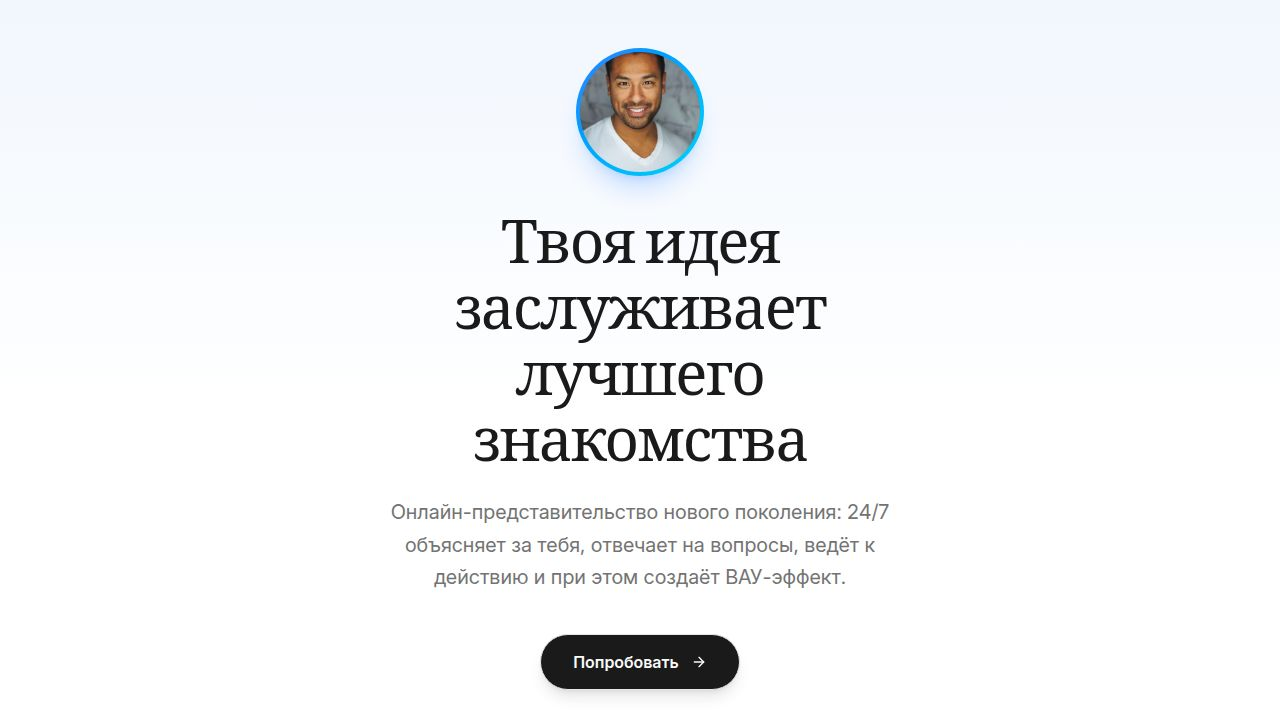
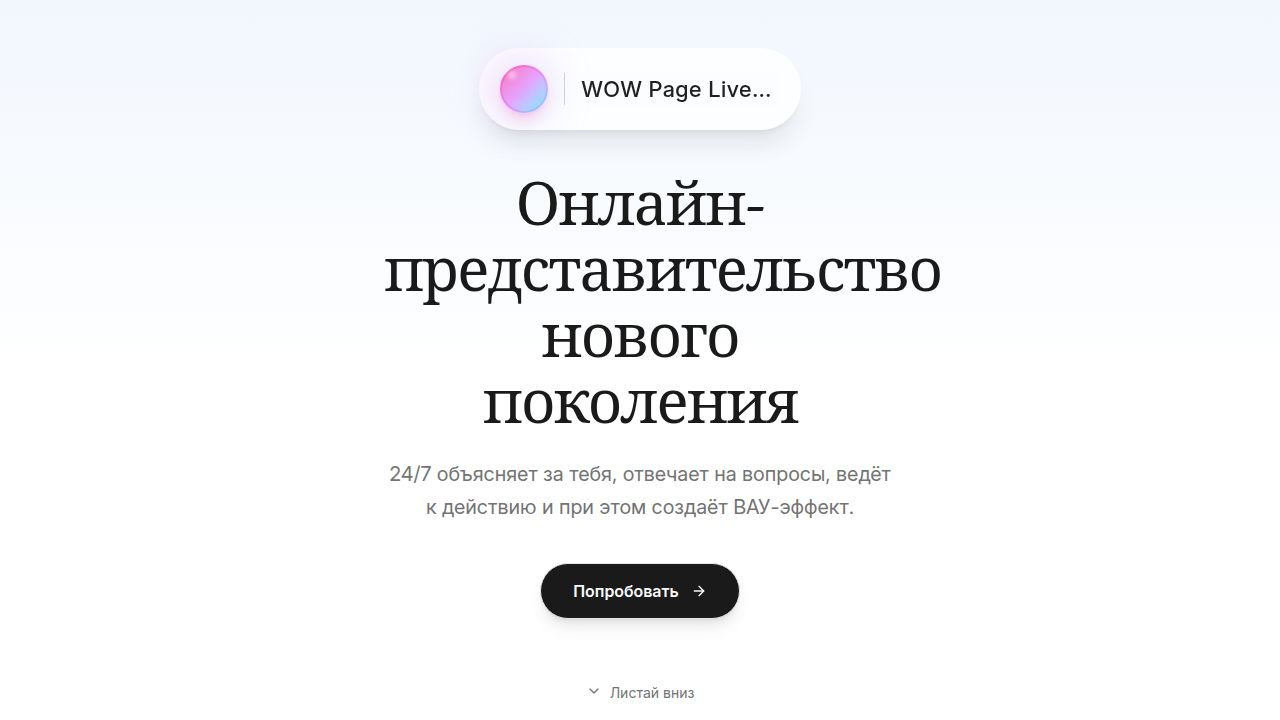
Update content structure document with new hero section details
Update content_structure.md to reflect changes in the HERO section, including the animated gradient sphere, updated headline, and revised subtitle.

Replit-Commit-Author: Agent
Replit-Commit-Session-Id: 7379edc7-50fc-4169-9485-e67b6c62e741
Replit-Commit-Checkpoint-Type: full_checkpoint
Replit-Commit-Event-Id: 4fe708b1-d21d-48ed-990d-6394972baa79
Replit-Commit-Screenshot-Url: https://storage.googleapis.com/screenshot-production-us-central1/99026f04-89c8-4da1-87eb-aada4135dc22/7379edc7-50fc-4169-9485-e67b6c62e741/8EJfL6R
Replit-Helium-Checkpoint-Created: true

Changed region(s): [[0.2812, 0.0611, 0.75, 0.9778]]

diff --git a/content_structure.md b/content_structure.md
@@ -1,8 +1,9 @@
 # ТЕКСТОВАЯ СТРУКТУРА ПРОЕКТА: "Твоё живое онлайн-представительство"
 
 ## 1. HERO (ГЛАВНЫЙ ЭКРАН)
-Заголовок: Твоя идея заслуживает лучшего знакомства
-Подзаголовок:Онлайн-представительство нового поколения: 24/7 объясняет за тебя, отвечает на вопросы, ведёт к действию и при этом создаёт ВАУ-эффект.
+- Визуальный элемент: Анимированная градиентная сфера с текстом "WOW Page Live..."
+- Заголовок: Онлайн-представительство нового поколения
+- Подзаголовок: 24/7 объясняет за тебя, отвечает на вопросы, ведёт к действию и при этом создаёт ВАУ-эффект.
 - Кнопка: Попробовать
 - Доп. инфо: Листай вниз
 
